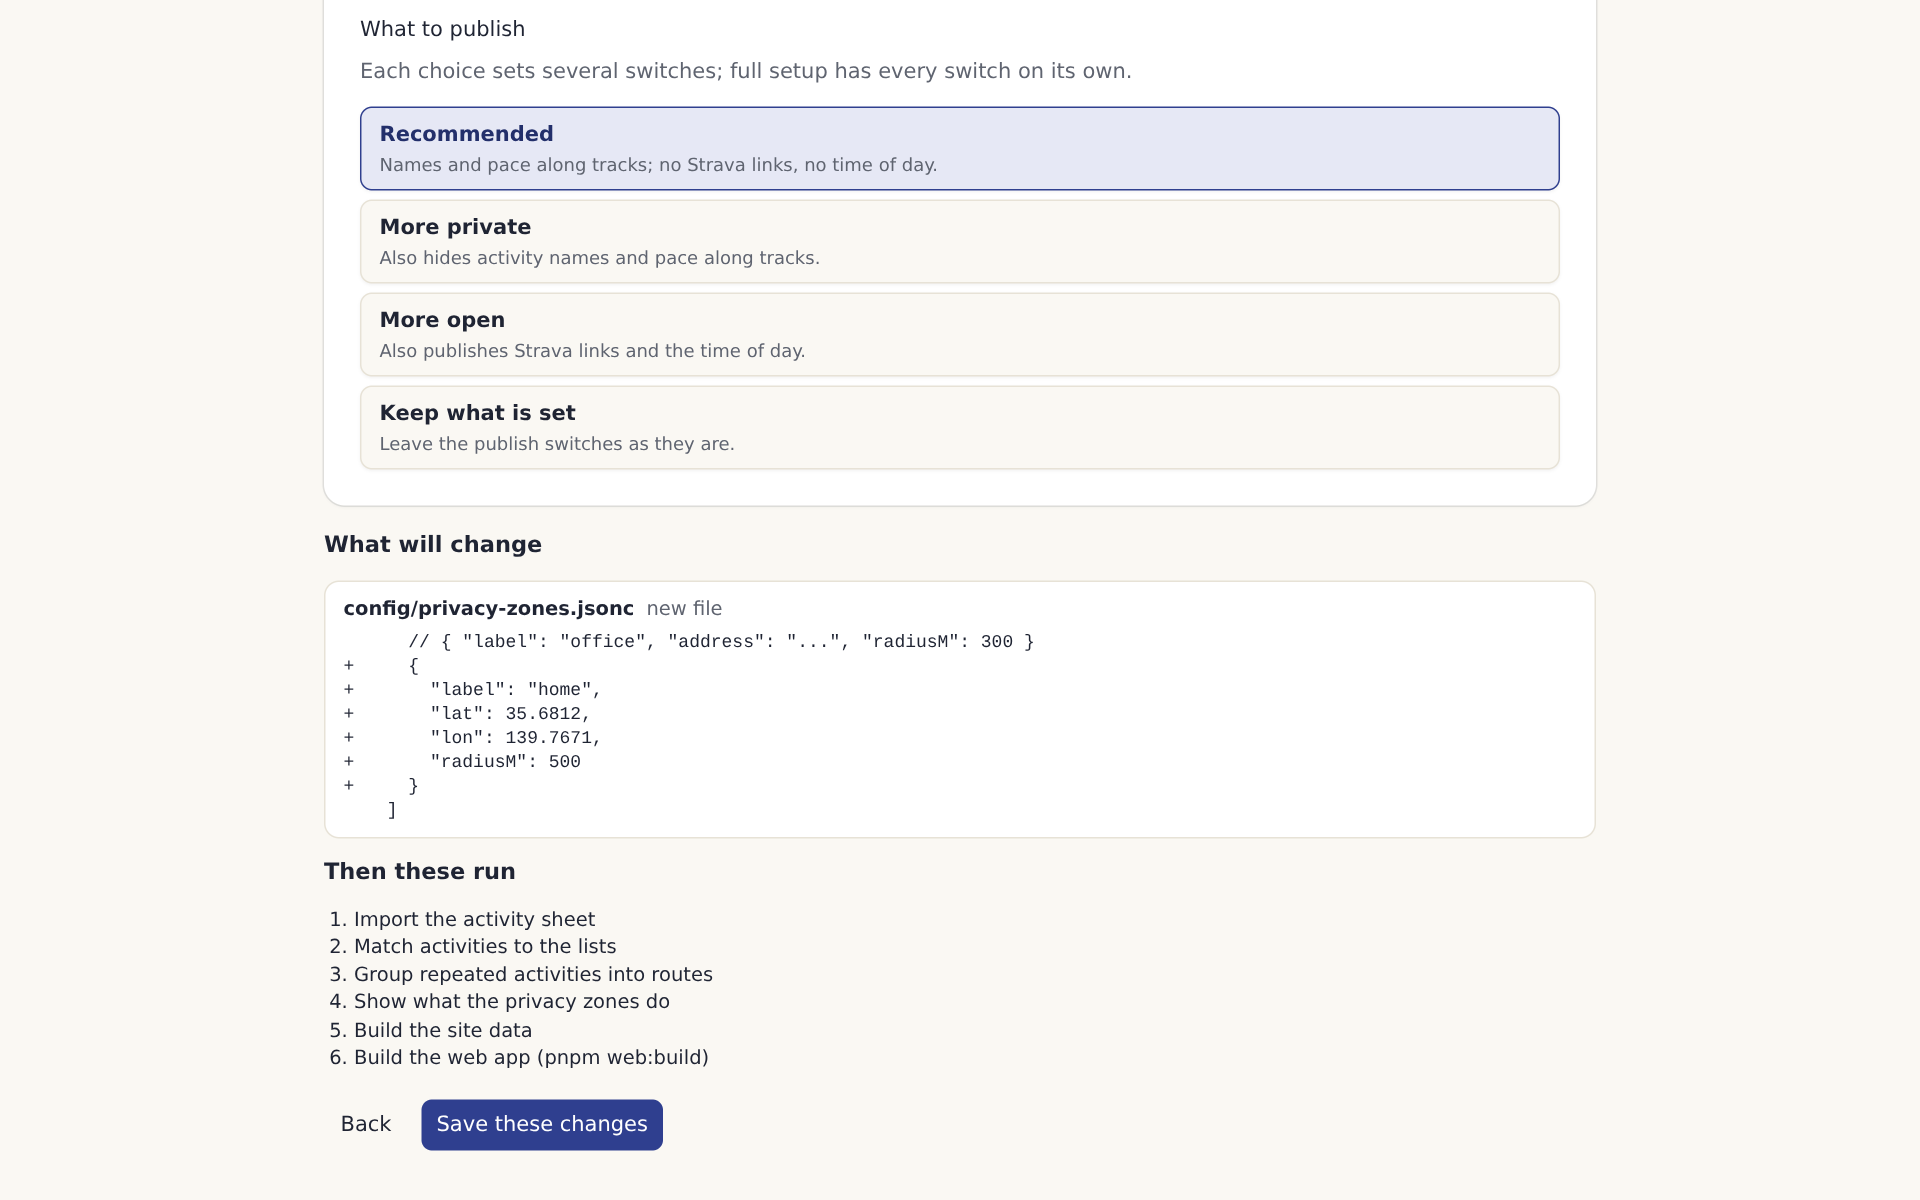
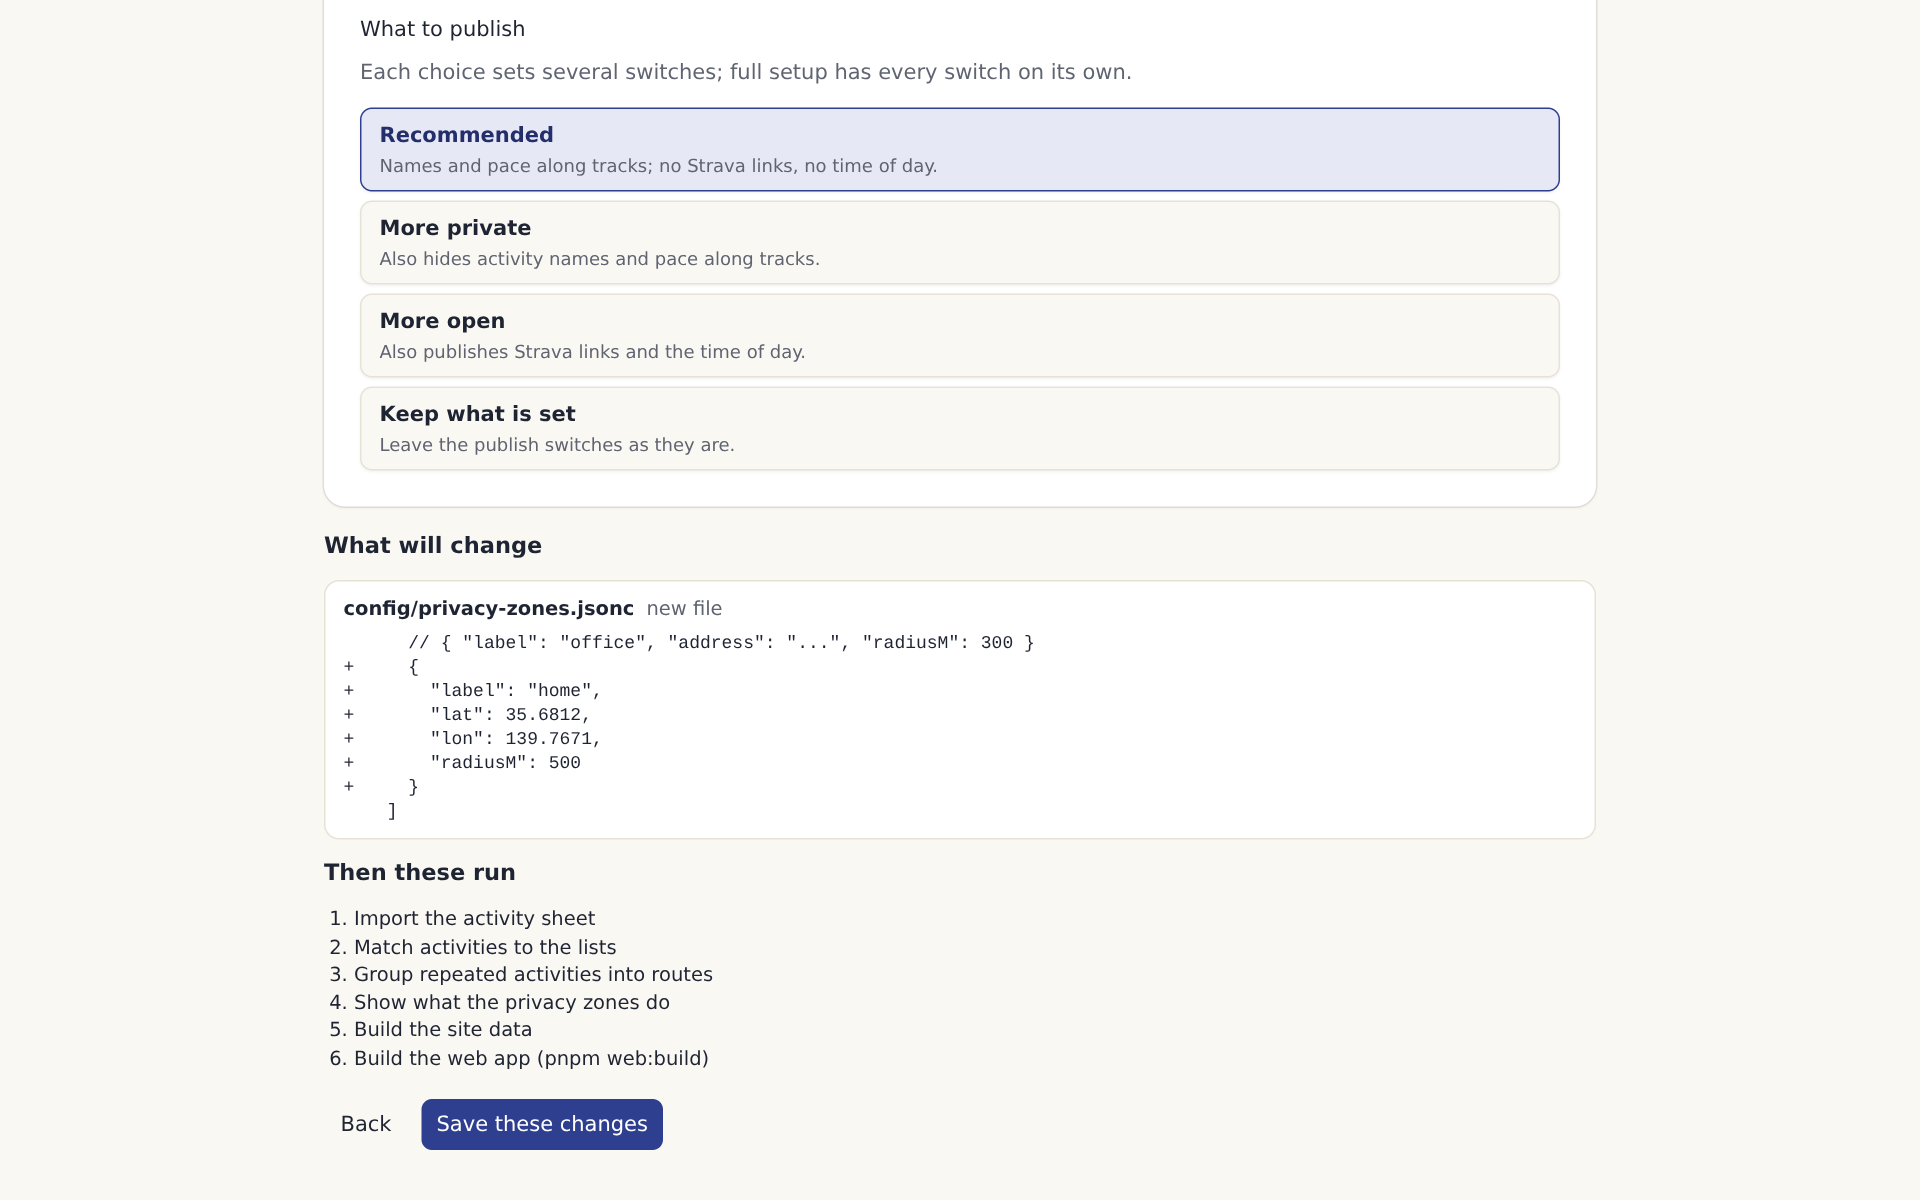
docs: phone screenshots in the README; setup and GPX guides show the new screens
- README: an "On a phone" section with two screenshots
- Retake the statistics, activity and setup-review pictures for the current wording
- docs/setup.md: the first screen with saved groups and waiting commands
- docs/gpx.md: importing from the setup page, with the drop area

diff --git a/README.md b/README.md
@@ -4,7 +4,8 @@ A personal map of Japan that ticks off famous peaks, trails and pilgrimage route
 and ride them.
 
 It reads your activities from Strava, from GPX files or from a spreadsheet you keep by hand, does
-all the work on your own computer, and builds a static site you can host anywhere. Your home stays off the map.
+all the work on your own computer, and builds a static site you can host anywhere. Your home stays
+off the map.
 
 Live demo, with made-up activities: <https://mladimatija.github.io/japan-activity-map/>
 
@@ -39,7 +40,7 @@ too.
   count.
 - Prefectures shaded by activities, distance, climb or days.
 - Explorer tiles: every map square you've been in, and the biggest solid square among them.
-- Hillshade, 3D terrain and a dark map. It works on a phone.
+- Hillshade, 3D terrain and a dark map.
 - Search for any place, route or activity. Filter by type, year, season, weekday, prefecture,
   distance, climb or time, and save a set of filters as a view with its own link.
 
@@ -68,6 +69,16 @@ GPX files ([docs/gpx.md](docs/gpx.md)).
 The site is in English and Japanese, in kilometres or miles.
 
 ![The Statistics page: totals, prefectures visited and this year against last](docs/images/statistics.png)
+
+### On a phone
+
+The list becomes a sheet you pull up over the map, search opens full screen, and the chart pages
+fit the narrow screen.
+
+<p>
+  <img src="docs/images/phone-map.png" width="260" alt="The map on a phone, with the list as a sheet at the bottom" />
+  <img src="docs/images/phone-statistics.png" width="260" alt="The Statistics page on a phone" />
+</p>
 
 ### Privacy
 
@@ -100,8 +111,8 @@ pnpm install
 
 1. Try the demo. `pnpm jam demo`, then `pnpm demo:web`, gives you a complete site from made-up
    activities, stored separately from your own data ([docs/demo.md](docs/demo.md)).
-2. Set up. `pnpm jam setup` asks a few questions: Strava, GPX files or a sheet, where home is so it can be
-   hidden, what to publish. Then it writes the config files and runs the first sync and build.
+2. Set up. `pnpm jam setup` asks a few questions: Strava, GPX files or a sheet, where home is so it
+   can be hidden, what to publish. Then it writes the config files and runs the first sync and build.
    `pnpm jam setup --web` does the same in your browser ([docs/setup.md](docs/setup.md)).
 3. Check what gets cut. `pnpm jam zones --preview`, then `pnpm web:preview` to see the site as it
    will be published ([docs/privacy.md](docs/privacy.md)).

diff --git a/docs/setup.md b/docs/setup.md
@@ -150,7 +150,11 @@ the folder; `sheet`), `privacy` (the zones, and the three privacy thresholds), `
 
 On the page, saving a group brings you back to the first screen, where you can change another
 group; what the changes leave to run is collected, each command once and in order, and runs when
-you press "Run these now". After a change the wizard says what the change makes stale and offers to run it: a new
+you press "Run these now".
+
+![The first screen after two groups were saved: what was saved, and the commands waiting to run](images/setup-change.png)
+
+After a change the wizard says what the change makes stale and offers to run it: a new
 `includePrivate` needs `strava auth` and a pull; types or dates need a pull; matching thresholds
 need `match`; route grouping needs `routes regroup`; zones and privacy need `zones --preview` and
 `build`; site, map, views, publish and output need `build`, and so does switching the site

diff --git a/docs/gpx.md b/docs/gpx.md
@@ -70,6 +70,14 @@ saying so: fix or delete the file and import again.
 `pnpm jam gpx wipe --yes` deletes every GPX activity and its track, after a copy of the store. The
 files themselves aren't touched. No GPX command reads or changes a Strava activity or a sheet row.
 
+## From the setup page
+
+`pnpm jam setup --web` offers "GPX files" under "Where activities come from". Drop a `.zip` or
+a `.gpx` there and it is saved into `data/activities` on your computer, then imported when the
+plan runs (docs/setup.md).
+
+![The setup page with GPX files chosen: a place to drop a .zip or .gpx](images/setup-gpx.png)
+
 ## Building the site from GPX files
 
 The store can hold Strava activities and GPX activities side by side. `config/site.jsonc` says
